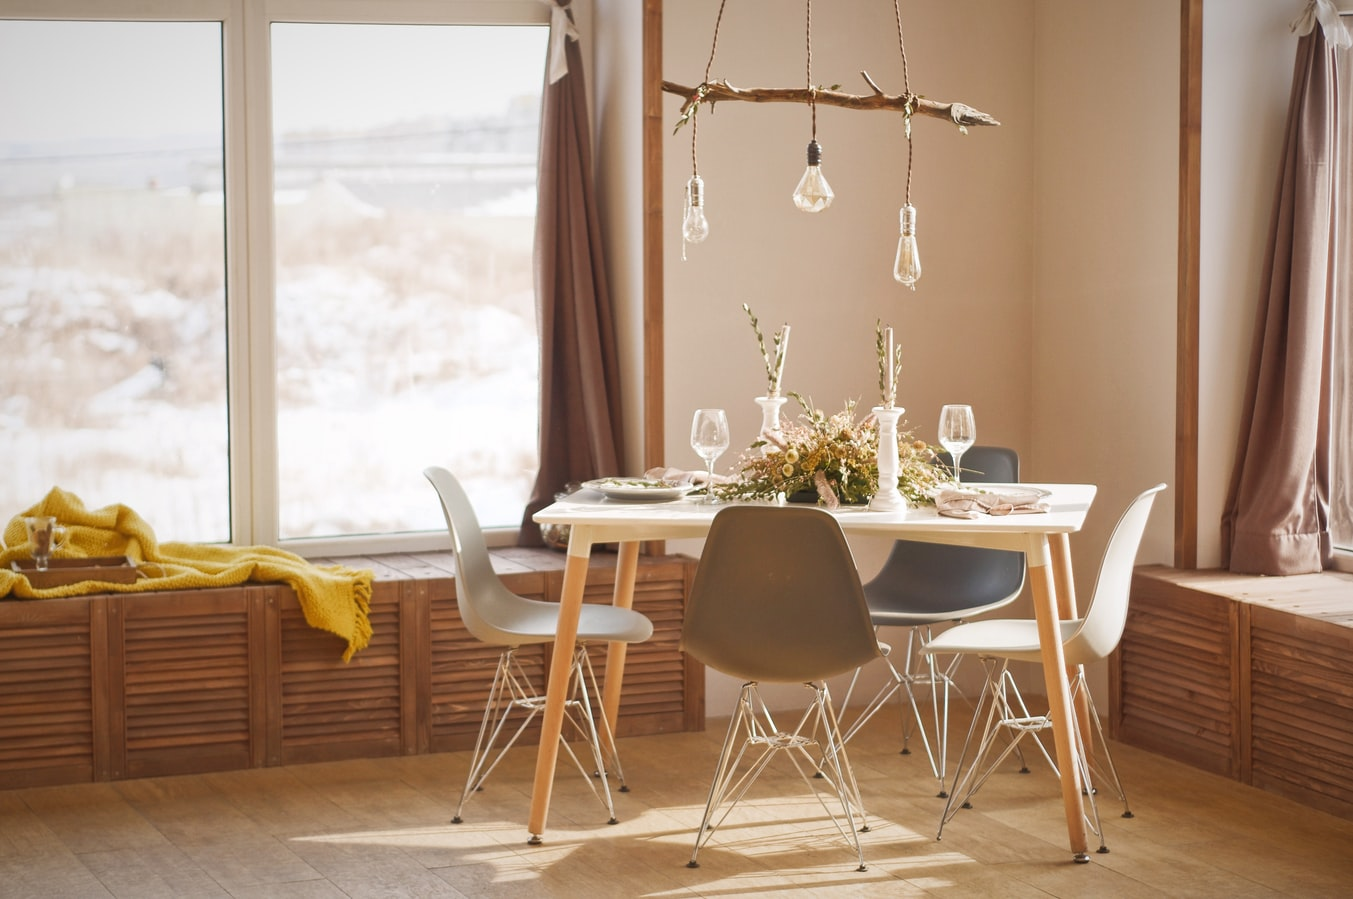
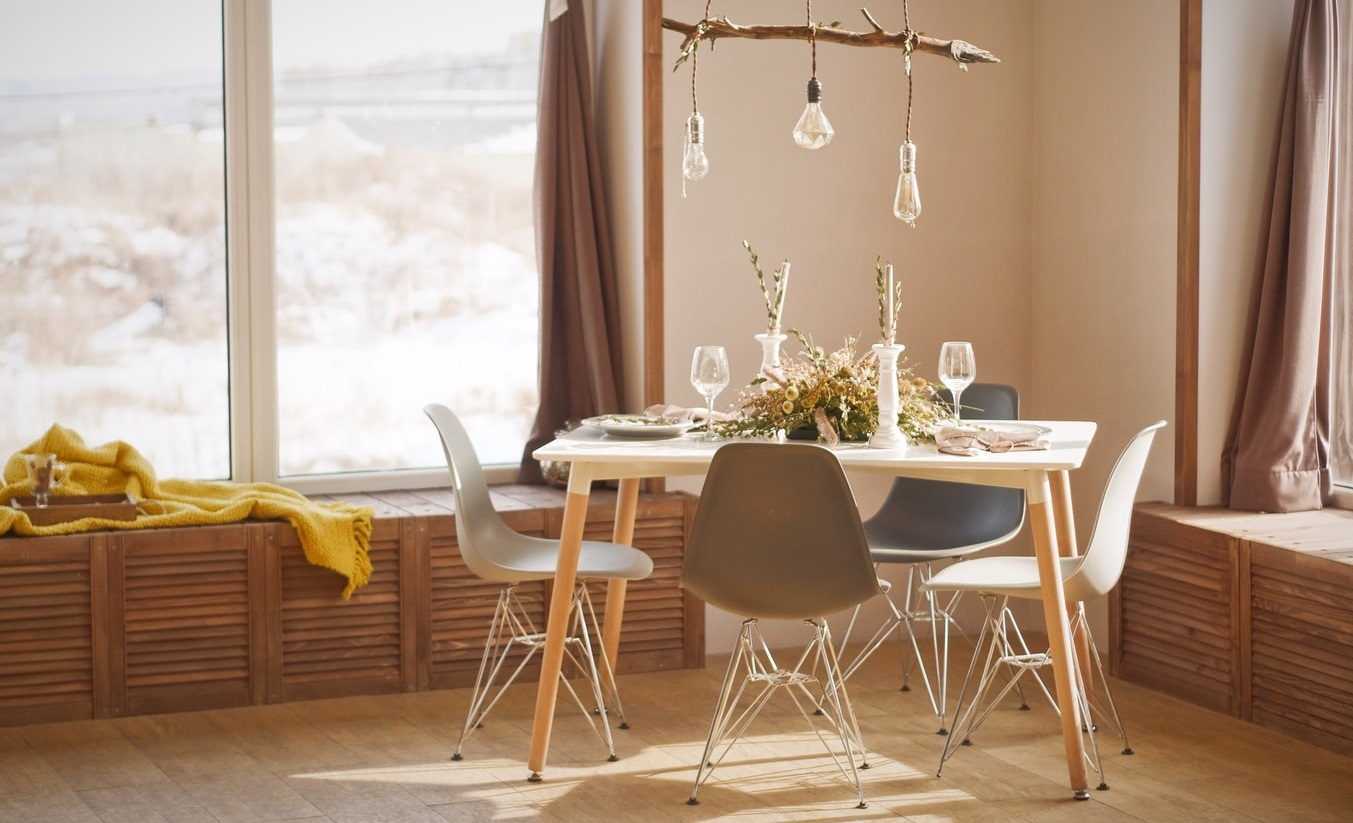
m

diff --git a/modlyGUI/src/pages/home/Home.css b/modlyGUI/src/pages/home/Home.css
@@ -4,20 +4,27 @@
     grid-auto-rows: repeat(4, 1fr);
 }
 
-.treeLogo {
+.mainPic {
     grid-column: 1 / 10;
-    grid-row: 1/2;
+    grid-row: 1/1;
     justify-self: center;
     width: 100%;
+}
 
+.treeLogo {
+    grid-column: 1 / 10;
+    grid-row: 2/2;
+    justify-self: center;
+    height: 50vh;
 }
 
 .title {
     font-size: 42px;
-    color: white;
+    color:#6abb20;
     font-family: 'Alegreya Sans SC', sans-serif;
+    font-weight: 700;
     grid-column: 1/4;
-    grid-row: 1/2;
+    grid-row: 2/2;
     z-index: 1;
     justify-self: center;
     animation-name: leftToRight;
@@ -25,15 +32,16 @@
 }
 
 .subTitle {
-    font-size: 22px;
-    color: white;
-    font-family: 'Source Sans Pro', sans-serif;
-    grid-column: 1/3;
-    grid-row: 1/2;
-    z-index: 1;
-    justify-self: end;
+    font-size: 24px;
+    cursor: pointer;
+    color:#6abb20;
+    font-family: 'Alegreya Sans SC', sans-serif;
+    font-weight: 600;
+    grid-column: 3/5;
+    grid-row: 2/2;
+    justify-self: center;
     align-self: end;
-    border-bottom: 2px solid white;
+    border-bottom: 2px solid#ff5c00;
     animation-name: fadeInEffect;
     animation-duration: 2s;
     -o-transition:.5s;

diff --git a/modlyGUI/src/pages/home/Home.js b/modlyGUI/src/pages/home/Home.js
@@ -1,12 +1,14 @@
 import React from 'react'
 import './Home.css'
-import TreeLogo from '../../shared/images/denne.jpg';
+import TreeLogo from '../../shared/images/haha.gif';
+import MainPic from '../../shared/images/room.jpg';
 import Swiper from '../../components/swiper/Swiper'
 
 
 export default function Home() {
     return (
         <div className="homeWrapper">
+            <img className="mainPic" src={MainPic} alt=""/>
             <img className="treeLogo" src={TreeLogo} alt=""/>
             <p className="title">Vi klimatkompenserar till 100% <br/> för varje bord vi tillverkar.</p>
             <p className="subTitle">LÄS MER OM HUR</p>
